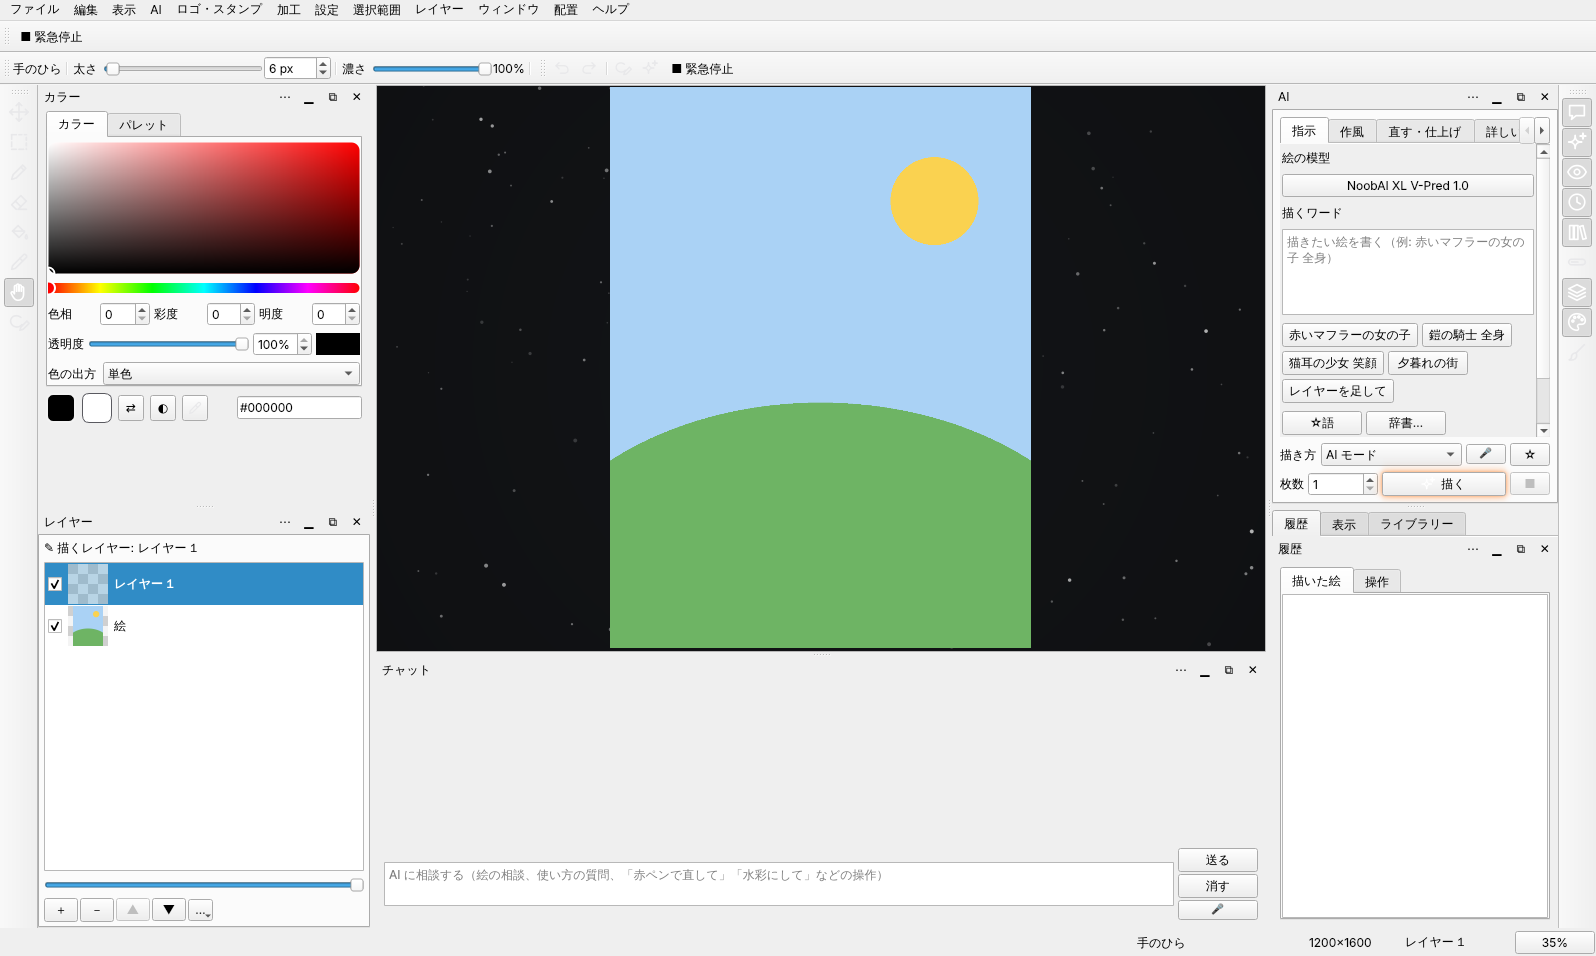
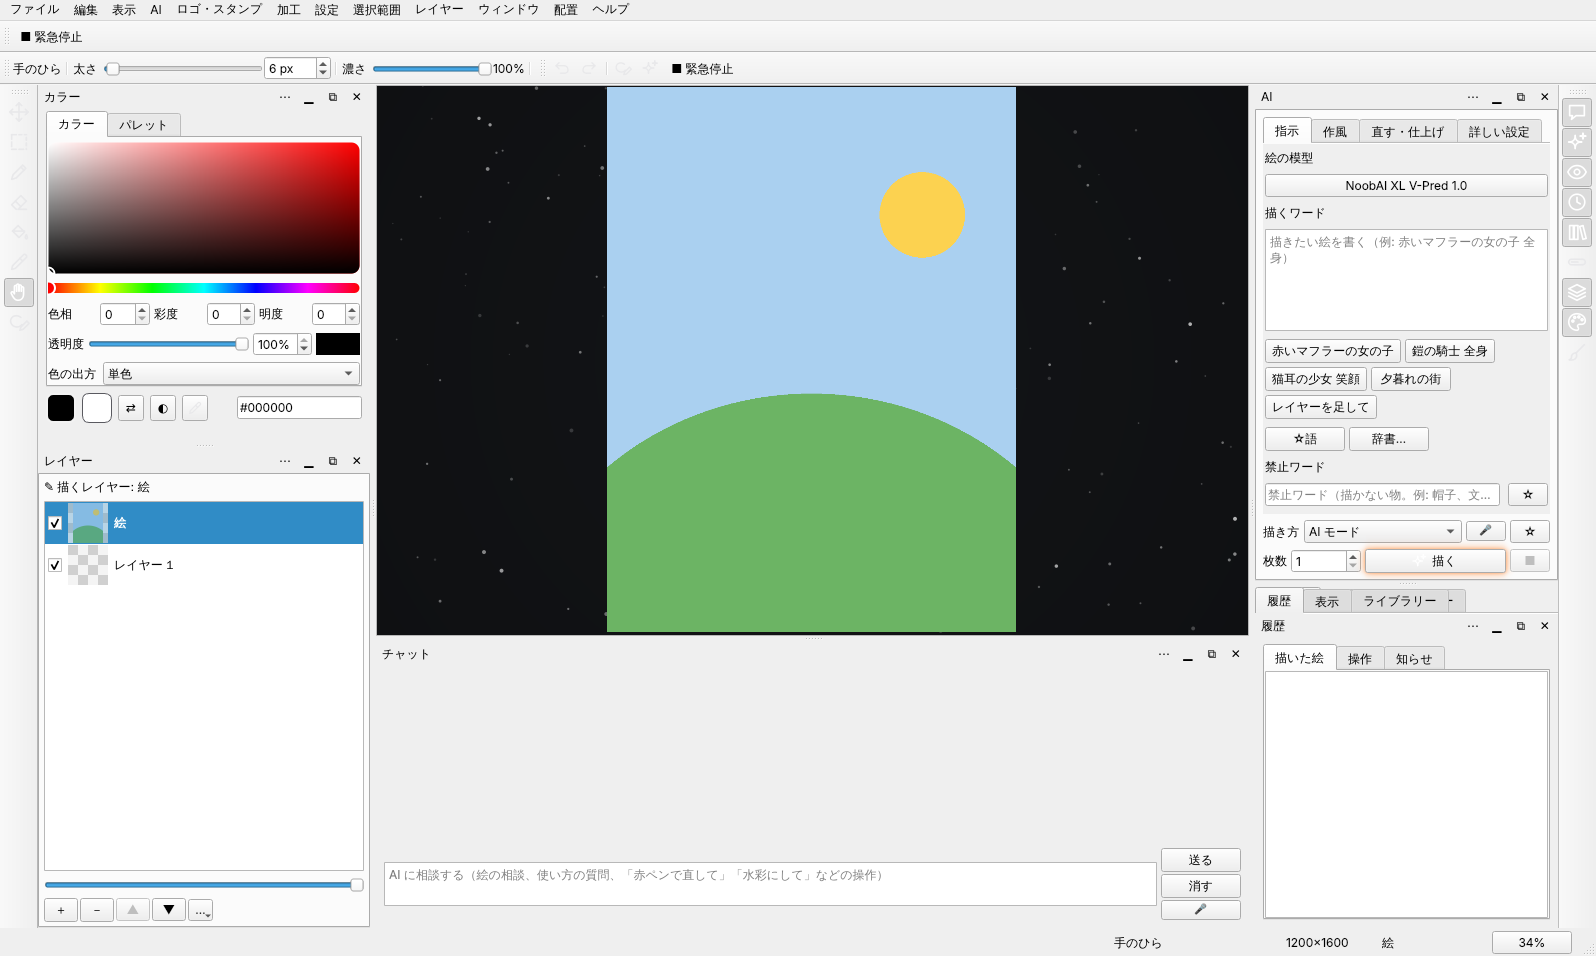
進みの欄を中身の高さに合わせ、通知と工程の表示の直しを記録する
描いていない間は状態と 1 行の説明だけにし、描いている間は折り返しを含めた高さに欄の外枠ごと合わせる。
時間を帯の下に移し、狭い窓で横に流す棒を出さない。依頼の一覧と決めたことに 3 件を足し、画面の写しを撮り直した。

diff --git a/atelier/ui/window_fit.py b/atelier/ui/window_fit.py
@@ -79,11 +79,24 @@ def install(app: QApplication):
 def fit_dock_height(dock: QWidget, height: int):
     """欄を中身の高さ（height）にそろえる。進みの欄のように、中身が状態で増え減りする欄に使う。
     欄の外側（流す枠）の高さを決めないと、Qt の欄の場所は前の高さのまま残り、描いている間は文が切れ、
-    描いていない間は空きが大きく残った。流す枠を中身と同じ高さに固定し、欄の場所をその高さに合わせる"""
+    描いていない間は空きが大きく残った。流す枠の高さの上限を中身の高さにし、欄の場所をその高さに合わせる"""
     box = dock.widget()
     if box is None:
         return
-    if box.minimumHeight() != height or box.maximumHeight() != height:
-        box.setFixedHeight(height)
+    box.setMinimumHeight(0)
+    box.setMaximumHeight(height)
+    # 欄の外枠の最小・最大は、中身が固定の高さのとき Qt が中身から決めて持ち続ける。隠れている間に中身の高さを変えると
+    # 前の高さ（起動したときの 114 など）のまま残ったので、毎回組み直させる
+    if dock.layout() is not None:
+        dock.layout().invalidate()
+        dock.layout().activate()
+    dock.updateGeometry()
     if dock.isFloating():
         dock.adjustSize()
+        return
+    from PySide6.QtWidgets import QMainWindow
+    main = dock.parentWidget()
+    if isinstance(main, QMainWindow) and dock.isVisible():
+        bar = dock.titleBarWidget()
+        head = bar.sizeHint().height() if bar is not None and bar.isVisible() else 0
+        main.resizeDocks([dock], [height + head], Qt.Vertical)

diff --git a/atelier/panels/activity_panel.py b/atelier/panels/activity_panel.py
@@ -88,10 +88,12 @@ class ActivityPanel(QWidget):
         top = QVBoxLayout(self.progress_view)
         top.setContentsMargins(10, 4, 10, 6)
         top.setSpacing(4)
+        # 狭い窓（800 など）でも横に流す棒を出さないよう、状態と時間は折り返して縮められるようにする
+        for lb in (self.state, self.time):
+            lb.setWordWrap(True)
+            lb.setMinimumWidth(40)
         head = QHBoxLayout()
-        head.addWidget(self.state)
-        head.addStretch()
-        head.addWidget(self.time)
+        head.addWidget(self.state, 1)
         head.addWidget(self.resume_tool)
         head.addWidget(self.stop_tool)
         # 動いていない間は隠す。上の帯にも緊急停止があり、待っている間は 2 つ並んで見えた（動いている間だけ進みの横に出す）
@@ -99,6 +101,7 @@ class ActivityPanel(QWidget):
         top.addLayout(head)
         top.addLayout(self.steps)
         top.addWidget(self.bar)
+        top.addWidget(self.time)   # 時間は帯の下に。見出しの横に置くと、狭い窓で状態の文が 1 字ずつ折れた
         top.addWidget(self.detail)
         top.addWidget(self.editor)
         top.addWidget(self.alive)

diff --git a/atelier/app/main_window.py b/atelier/app/main_window.py
@@ -891,7 +891,10 @@ class Window(FilesMixin, AiDrawingMixin, AiResultsMixin, ChatMixin, PromptsMixin
         # 進みの欄は中身（描いていない・描いている・工程の数）に合わせて高さを自動で合わせる
         from atelier.ui.window_fit import fit_dock_height
         self.activity.fitted.connect(lambda h: fit_dock_height(prog, h))
+        prog.widget().setHorizontalScrollBarPolicy(Qt.ScrollBarAlwaysOff)   # 中身は折り返して幅に合わせる
         fit_dock_height(prog, self.activity.progress_view.height())
+        # 隠していた欄を出したときも合わせ直す（隠れている間は欄の場所の高さを変えられない）
+        prog.visibilityChanged.connect(lambda on: on and QTimer.singleShot(0, lambda: fit_dock_height(prog, self.activity.progress_view.height())))
         for key, (d, _area) in self.panels.items():
             d.setTitleBarWidget(PanelTitle(d))
             # 欄の中で、自分のメニューを持たない所を右クリックしても、使えるメニューを出す（押しても何も出ない所を作らない）

diff --git a/docs/knowledge/decisions.md b/docs/knowledge/decisions.md
@@ -315,3 +315,6 @@
 | 2026-11-22 | 精度優先の直しは、前の工程へ戻らず、種を替えて描き直さず、今の絵の崩れの囲みの中だけを redraw で直す（外は composite で元の画素）。直しても絵が変わらない回は数えずに囲みと強さを上げ、1 工程で 3 回手を替えても消えない崩れと囲めない崩れは、止まって残った崩れと直し方（赤ペン、言葉、構図から描き直す）を利用者に出す。累計は絵が変わった回だけ数える | 戻り先の土台から種を替えて描き直す形では、途中で別の絵になり、最初に戻ってから処理の工程を数秒で抜けて最後へ飛び、同じ絵を何枚も数え、直すたびに絵が変わって終わらなかった。前の行の「上限を置かずに戻って直す工程を足し続ける」はこれで置き換え | atelier/ai/phases.py、docs/knowledge/drawing-phases.md |
 | 2026-11-22 | AI の絵（1 回で描いた絵、精度優先の途中の絵、赤ペンの直し・加工の結果）は、いきなり置かず、前の絵（無ければ白）から差のある所だけを線画→大きな塗り→細かい塗り→仕上げの順に筆の運びで描き込んで見せ、筆先の丸も動かす（atelier/paint/brush_reveal.py）。線は timelapse.reconstruct と同じ「周りより暗い所」を線に沿って伸ばし、塗りは平塗りの色の塊ごとに真ん中から広げる。絵は先にレイヤーへ置き、見せるのは重ね絵だけにするので、見せ終えた画素は AI の絵と同じで、描く処理も待たせない。運びの計算は裏の糸、再生は画面の糸のタイマーで、次の絵が来たら途中でも次へ進み、キャンバスを触ったらすぐ最後の絵にする。設定「AI の絵の出し方」で「すぐ置く」も選べ、既定は見せる。タイムラプスにも同じ運びを入れる | 人が描くときは線がいきなり出てこない。描く過程を見せるため |
 | 2026-11-22 | Release を決める e2e の段（windows）を、入れる・起動・窓が出る・1 枚描く・保存して開き直す・アンインストールの最小にし、通ったらすぐ release を出す。重い段（検品の部品、工程に分けて描く、赤ペン、精度優先）は release のあとの windows-heavy で流して落ちたら赤くする。模型と部品は actions/cache で戻し、Windows の段は main への push と手で起こしたときだけ流す | main に入ってから Release まで 約 50〜60 分かかり、致命的な不具合の直しが届くのを待たせていた。作業ブランチの回と Windows の機械を取り合わないため |
+| 2026-11-22 | 進みの欄は中身から高さを決める。描いていない間は状態と 1 行の説明だけにし（工程の帯・棒・空の行・前の回の検品の文を隠す）、描いている間は折り返しを含めた中身の高さに欄の外枠ごと合わせる。時間は帯の下の行に置き、狭い窓では状態の文を折り返して横に流す棒を出さない | 欄の場所が前の高さのまま残り、描いていない間は空きが大きく、描いている間は文が切れ、800 の幅では横に流す棒が出た | atelier/panels/activity_panel.py、atelier/ui/window_fit.py |
+| 2026-11-22 | 通知は種類（知らせ・できた・注意と崩れ・エラー・描き終わりの進みのポップアップ）ごとに「出さない / 数秒で消す（秒）/ 押すまで残す」を設定の「通知」で選ぶ。既定はエラーだけ押すまで残し、ほかは数秒で消す。出さない種類も含めて、出た通知は進み具合の欄の「知らせ」のタブに残す | 進みのポップアップが × を押すまで残り続け、種類ごとに決められなかった | atelier/ui/notice_rules.py |
+| 2026-11-22 | 精度優先の工程の番号と名前は、利用者に見せる所（進みの欄・ポップアップ・確かめる窓・工程のレイヤーの名前）で描かない工程（目的）を外し、描く工程だけを 1 から数える（N も描く工程の数）。描く流れ（phases.py）の番号は変えない | 「工程 1「目的」」は何も描かず、利用者には意味が分からず、番号もずれて見えた | atelier/ui/phase_display.py |

diff --git a/docs/reports/user-requests.md b/docs/reports/user-requests.md
@@ -372,3 +372,6 @@
 | F6 | CharacterDesigner のリポジトリが無くても AtelIer の開発と動きが成り立つところまで引き継いで完成させる（2026-11-22） | 着手 | |
 | F7 | 精度優先で描いている途中にアタリを表示しない（前に指示したのにデグレした。2026-11-22） | 直した | atelier/ai/phases.py の NO_PREVIEW |
 | F8 | 精度優先の設計の見直し: 描いている途中で別の絵にしない、ゼロに戻っていきなり最後の工程へ飛ばない、同じ絵を続けて描いて工程の数を稼がない（2026-11-22） | 着手 | |
+| F9 | 窓と欄を中身と画面の大きさに合わせて自動で整える。特に進みの欄（大きすぎる・小さすぎる・文字が切れる・空きが多い）（2026-11-22） | 直した | atelier/panels/activity_panel.py の _fit、atelier/ui/window_fit.py の fit_dock_height |
+| F10 | 通知のポップアップが出たまま消えない。種類ごとに「出さない / 数秒で消す（秒を選ぶ）/ 押すまで残す」を設定で選べるようにする（2026-11-22） | 直した | atelier/ui/notice_rules.py、設定の「通知」、進み具合の欄の「知らせ」 |
+| F11 | 精度優先の表示に描かない工程「目的」を出さない。描く工程だけを 1 から数え、N も描く工程の数にする（2026-11-22） | 直した | atelier/ui/phase_display.py |
